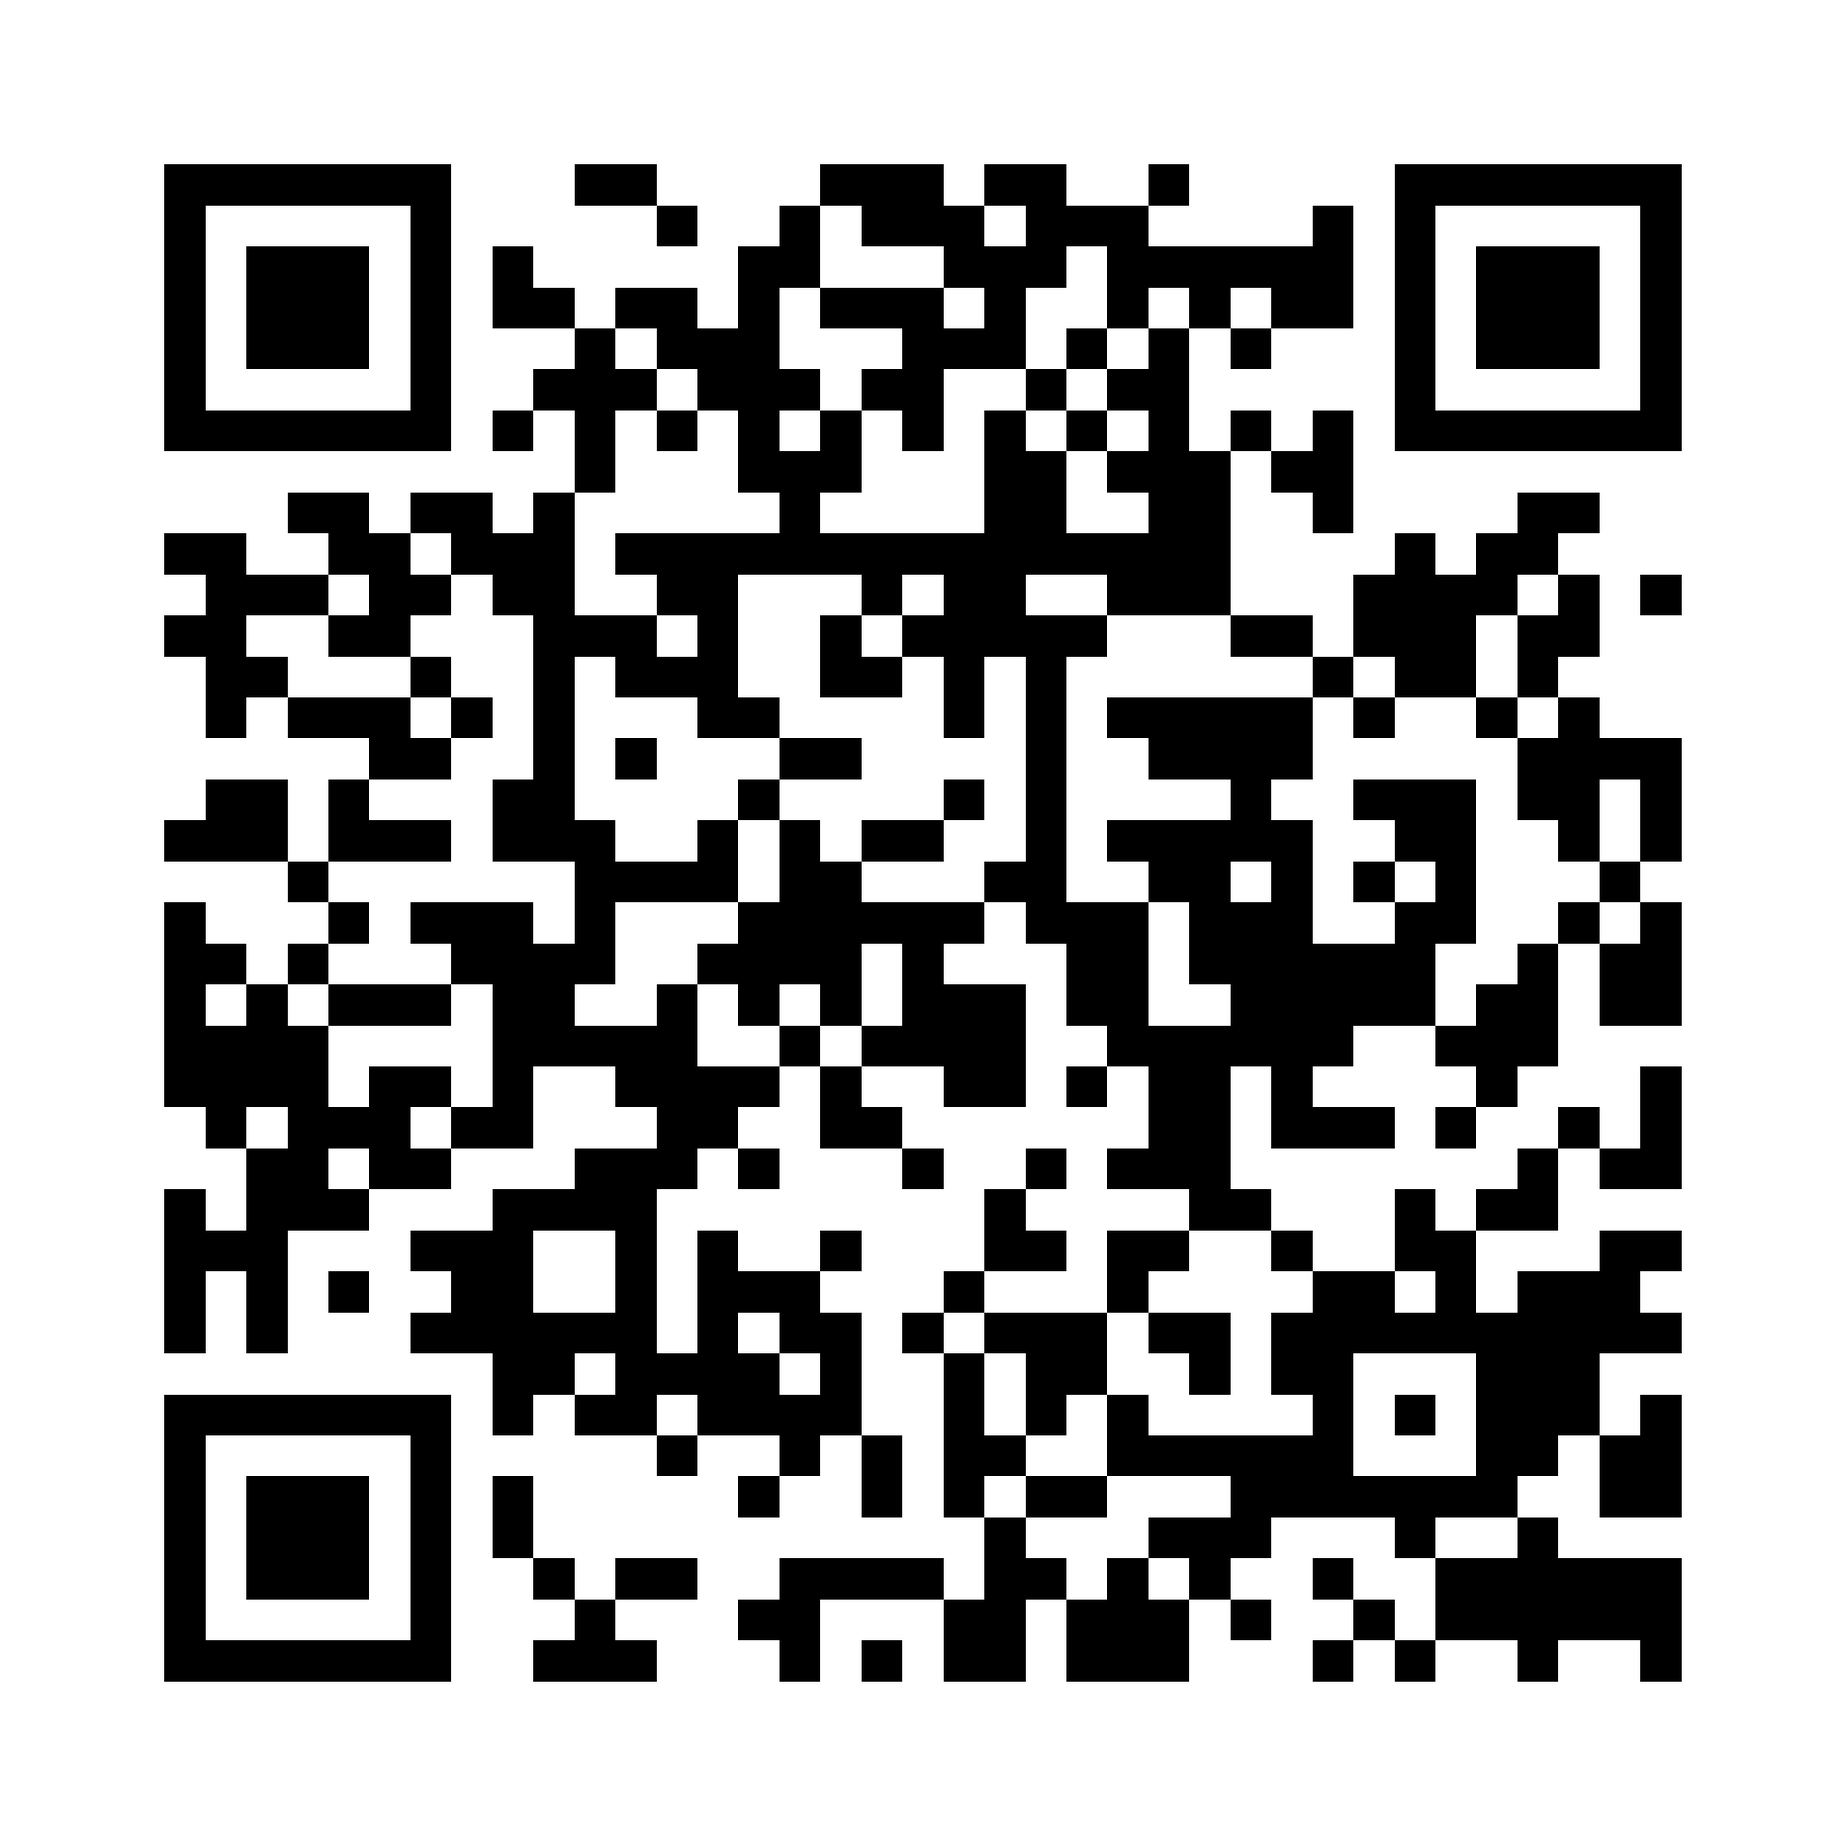
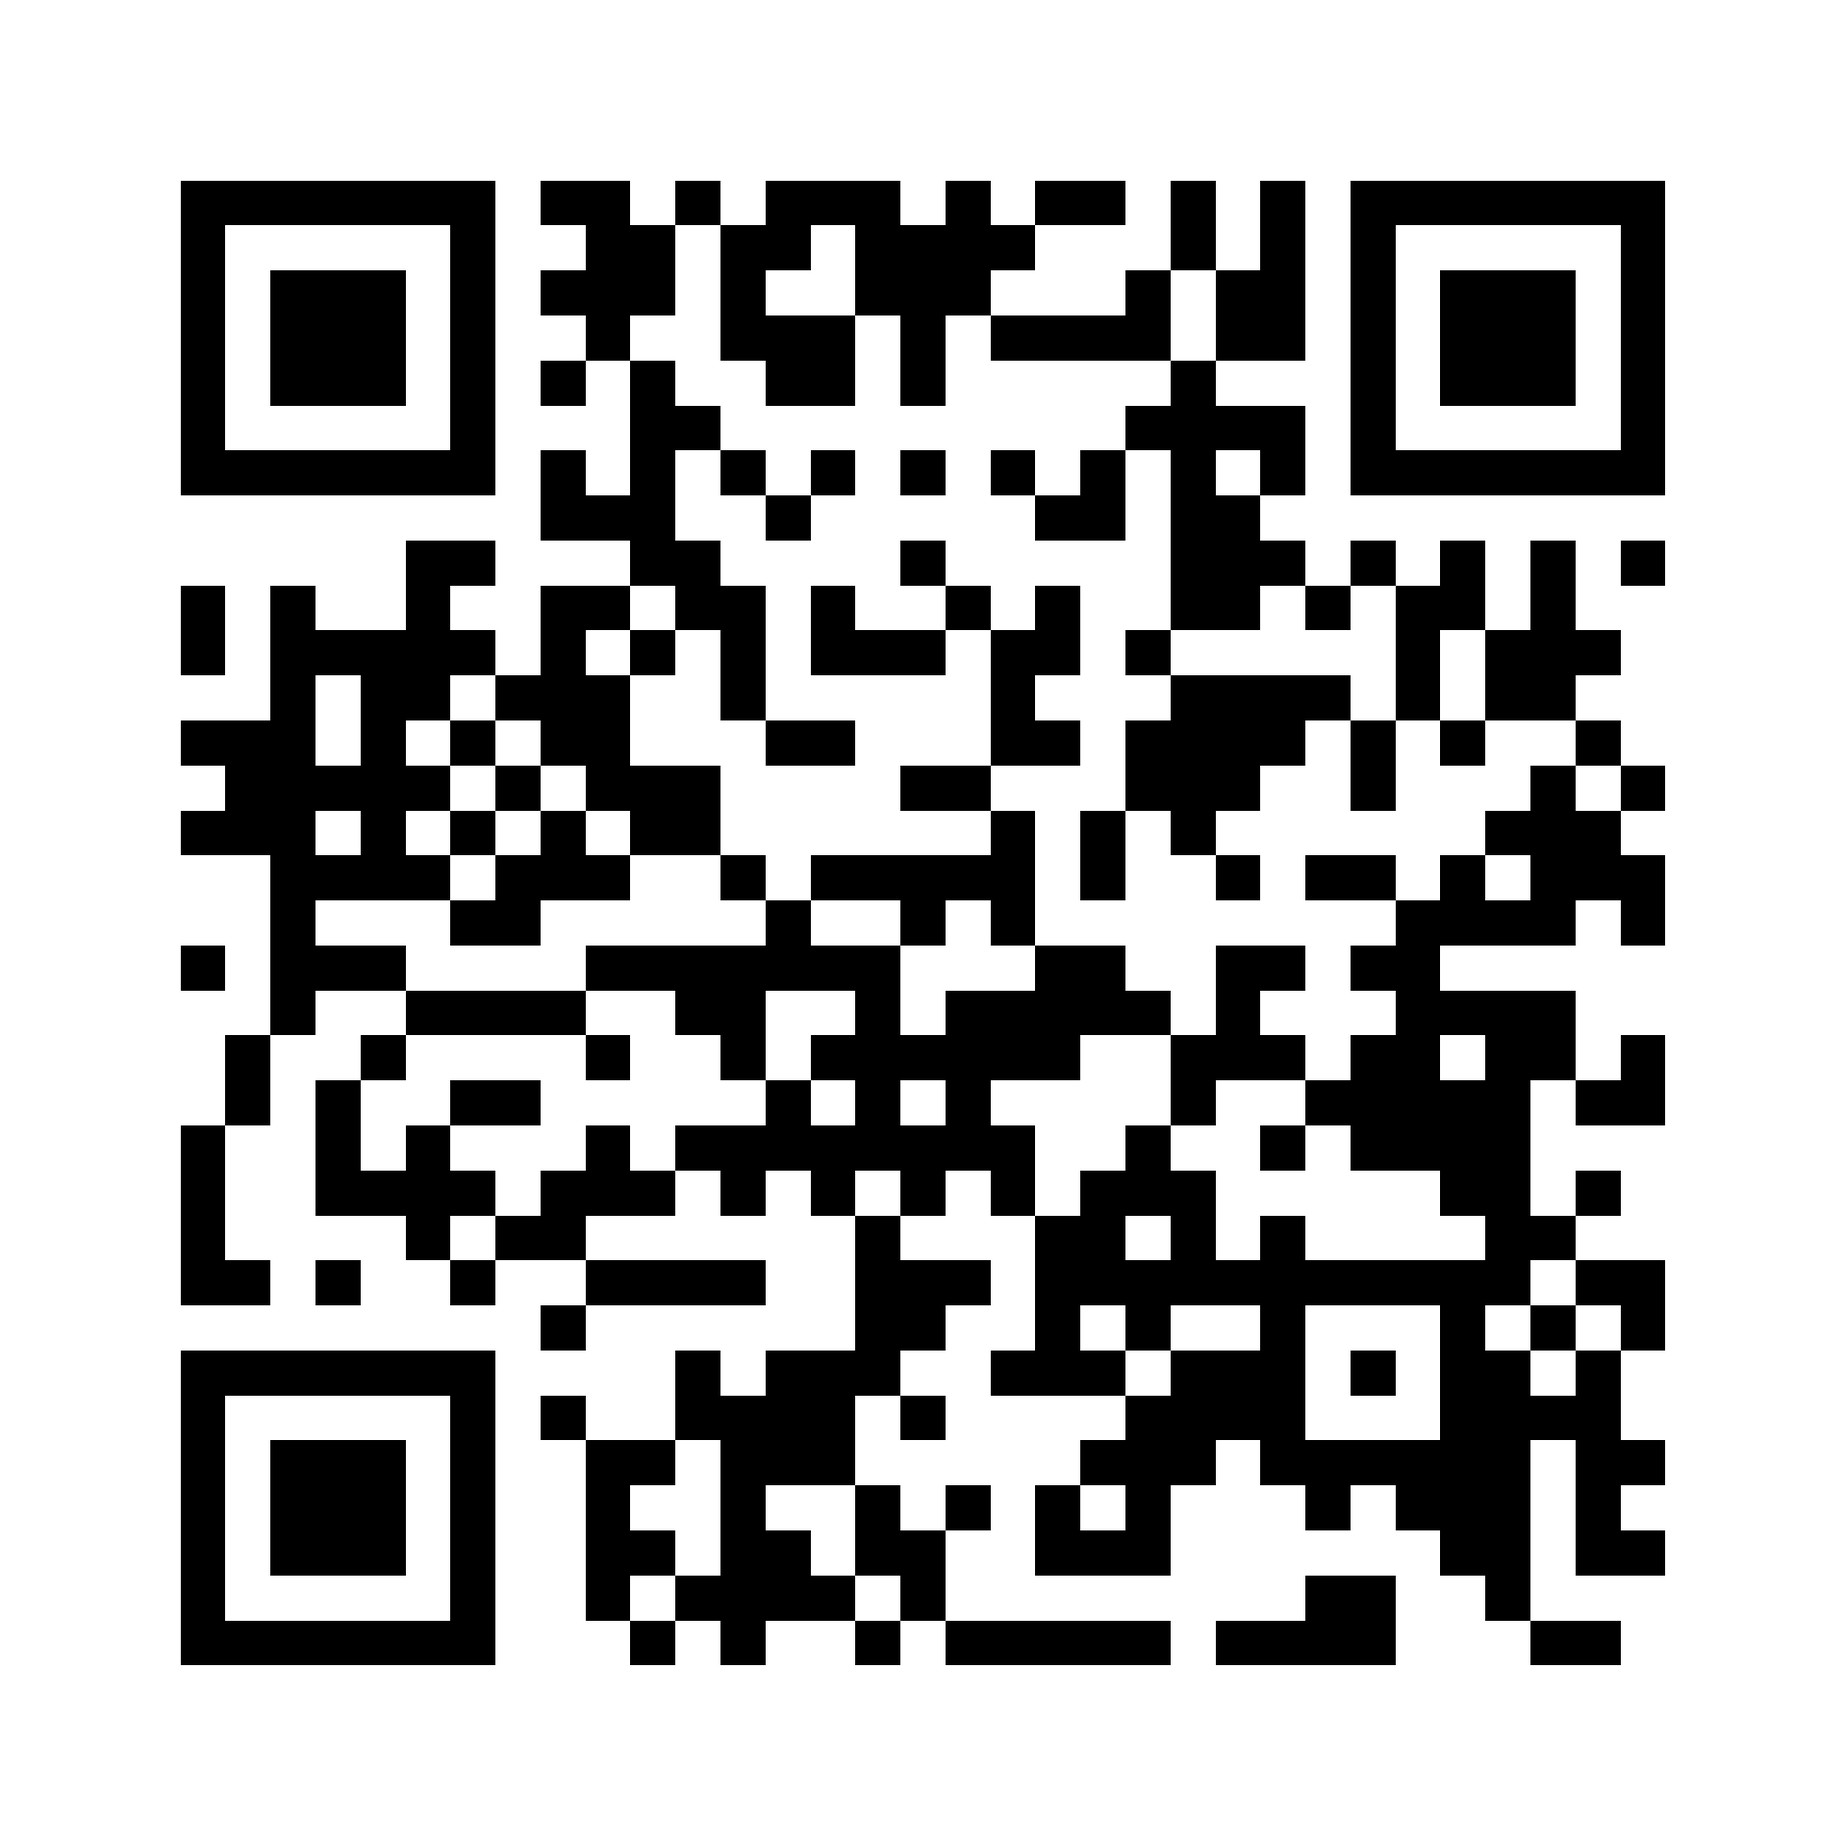
Hocaoglu menusunu kendi alan adina tasi (hocaoglupasta.com)
Menu ayri bir projeye tasinmiyor: ayni proje ikinci alan adina da cevap
veriyor. Kod, panel ve fiyat deposu ortak kaliyor, esnaf cogaldikca
kopyalanan kod olusmuyor.

- lib/domains.ts: alan adi <-> esnaf eslemesi, tek dogruluk kaynagi.
  Middleware'den import edildigi icin bilerek duz veri, menu dosyalarini
  Edge paketine cekmiyor.
- middleware.ts: matcher /admin disina genisletildi. Kendi alan adinda
  kok adres menuye rewrite edilir (adres cubugunda /menu/... gorunmez),
  /menu/* koke toplanir; ana sitedeki eski adres yeni alan adina 308.
  Panel korumasi ayri fonksiyona alindi, davranisi degismedi.
- canonical ve og:url esnafin kendi adresine doner, ayni menu arama
  motoruna iki ayri adres olarak gorunmez.
- npm run qr artik slug aliyor, adresi domains.ts'ten turetiyor.
  Hocaoglu QR'i https://hocaoglupasta.com adresine yeniden uretildi.

Ay Doner etkilenmedi, /menu/ay adresinde kalmaya devam ediyor.

Claude-Session: https://claude.ai/code/session_01MqEPBfbt6tbjrbvt1t7XER

diff --git a/middleware.ts b/middleware.ts
@@ -1,16 +1,62 @@
 import { NextResponse, type NextRequest } from 'next/server'
 import { SESSION_COOKIE, canEdit, readSession } from '@/lib/auth'
+import { restaurantDomain, slugForHost } from '@/lib/domains'
 
 /**
- * /admin altındaki her şey oturum ister. Giriş sayfası muaf, yoksa
- * kullanıcı sonsuz yönlendirmeye girer.
+ * İki iş yapıyor:
  *
- * Oturum ayrıca hangi esnafa ait olduğunu taşır: /admin/<slug> yolunda
- * kapsam tutmuyorsa istek kendi paneline geri gönderilir.
+ * 1) Alan adı yönlendirmesi. Kendi alan adı olan esnafta (bkz. lib/domains.ts)
+ *    kök adres o esnafın menüsünü gösterir; menünün ana sitedeki eski adresi
+ *    kalıcı olarak yeni alan adına yönlenir. Böylece her menünün tek bir
+ *    herkese açık adresi olur.
+ *
+ * 2) Panel girişi. /admin altındaki her şey oturum ister ve oturum hangi
+ *    esnafa ait olduğunu taşır; başkasının paneline geçilemez.
  */
 export async function middleware(request: NextRequest) {
   const { pathname, search } = request.nextUrl
+  const hostSlug = slugForHost(
+    request.headers.get('host') ?? request.nextUrl.hostname,
+  )
 
+  if (pathname.startsWith('/admin')) {
+    return adminGuard(request)
+  }
+
+  if (hostSlug) {
+    // Esnafın kendi alan adı. Kök adres menüyü gösterir; adres çubuğunda
+    // /menu/<slug> görünmesin diye redirect değil rewrite kullanıyoruz.
+    if (pathname === '/') {
+      return NextResponse.rewrite(new URL(`/menu/${hostSlug}`, request.url))
+    }
+
+    // /menu/... yolları bu alan adında yok sayılır: kendi menüsünün tekrar
+    // adresi de, başka esnafın menüsü de köke toplanır. Bu alan adı tek bir
+    // işletmeye ait, müşteriler birbirinin menüsünü görmüyor.
+    if (pathname.startsWith('/menu/')) {
+      return NextResponse.redirect(new URL('/', request.url), 308)
+    }
+
+    return NextResponse.next()
+  }
+
+  // Ana site: kendi alan adına taşınmış menünün eski adresi yeni adrese
+  // gitsin. Paylaşılmış bağlantılar kırılmaz, arama motorunda tek adres kalır.
+  const menuSlug = pathname.startsWith('/menu/')
+    ? pathname.split('/')[2]
+    : undefined
+  const ownDomain = menuSlug ? restaurantDomain(menuSlug) : undefined
+  if (ownDomain) {
+    return NextResponse.redirect(`https://${ownDomain}${search}`, 308)
+  }
+
+  return NextResponse.next()
+}
+
+async function adminGuard(request: NextRequest) {
+  const { pathname, search } = request.nextUrl
+
+  // Giriş sayfası muaf, yoksa kullanıcı sonsuz yönlendirmeye girer.
   if (pathname === '/admin/giris') return NextResponse.next()
 
   const session = await readSession(request.cookies.get(SESSION_COOKIE)?.value)
@@ -32,5 +78,12 @@ export async function middleware(request: NextRequest) {
 }
 
 export const config = {
-  matcher: '/admin/:path*',
+  /**
+   * Artık yalnızca /admin değil, kök adres de middleware'den geçmeli.
+   * Statik dosyalar ve görseller hariç tutuluyor — onlar için host
+   * yönlendirmesi anlamsız, her istekte middleware çalıştırmak israf.
+   */
+  matcher: [
+    '/((?!_next/static|_next/image|favicon.ico|robots.txt|.*\\.(?:png|jpg|jpeg|gif|svg|webp|ico|woff2?)$).*)',
+  ],
 }

diff --git a/lib/domains.ts b/lib/domains.ts
@@ -1,0 +1,51 @@
+/**
+ * Esnafa özel alan adları.
+ *
+ * Bir esnaf kendi alan adını aldığında buraya bir satır eklenir; gerisi
+ * (kök adresin menüye dönmesi, eski adresin yönlenmesi, canonical etiketi,
+ * QR'ın hangi adrese basılacağı) bu tablodan türer.
+ *
+ * DİKKAT: Bu dosya middleware'den import ediliyor, yani Edge ortamına
+ * giriyor. Bu yüzden bilerek yalnızca düz veri tutuyor — lib/menu-data
+ * altındaki menü dosyalarını buraya bağlama, hepsi Edge paketine girer.
+ *
+ * Alan adı www'suz ve protokolsüz yazılır; www ve port eşleştirme sırasında
+ * kırpılıyor.
+ */
+export const RESTAURANT_DOMAINS: Record<string, string> = {
+  hocaoglu: 'hocaoglupasta.com',
+}
+
+/** Kendi alan adı olmayan esnafların menüsü bu adresin altında durur. */
+export const SITE_URL =
+  process.env.NEXT_PUBLIC_SITE_URL ?? 'https://cetinnyigit.com'
+
+/** "www.Ornek.com:3000" → "ornek.com". Eşleştirme öncesi normalleştirme. */
+export function normalizeHost(host: string | null | undefined): string {
+  if (!host) return ''
+  return host.toLowerCase().split(':')[0].replace(/^www\./, '')
+}
+
+/** İstek bu alan adına geldiyse hangi esnafın menüsü açılmalı? */
+export function slugForHost(host: string | null | undefined): string | undefined {
+  const normalized = normalizeHost(host)
+  if (!normalized) return undefined
+
+  for (const [slug, domain] of Object.entries(RESTAURANT_DOMAINS)) {
+    if (normalized === normalizeHost(domain)) return slug
+  }
+  return undefined
+}
+
+export function restaurantDomain(slug: string): string | undefined {
+  return RESTAURANT_DOMAINS[slug]
+}
+
+/**
+ * Menünün herkese açık tek adresi. Kendi alan adı varsa kökü, yoksa ana
+ * sitedeki /menu/<slug> yolu. QR kartlar ve canonical etiketi bunu kullanır.
+ */
+export function restaurantUrl(slug: string): string {
+  const domain = restaurantDomain(slug)
+  return domain ? `https://${normalizeHost(domain)}` : `${SITE_URL}/menu/${slug}`
+}

diff --git a/scripts/make-qr.ts b/scripts/make-qr.ts
@@ -1,6 +1,10 @@
 /**
  * Karta bastırmak için QR üretir.
  *
+ * Esnaf slug'ı ver, adresi kendi bulsun (kendi alan adı varsa onu kullanır):
+ *   npm run qr -- hocaoglu
+ *
+ * Ya da adresi elle ver:
  *   npm run qr -- https://ornek.com/menu/hocaoglu hocaoglu
  *
  * İki dosya çıkar (qr/ klasörüne):
@@ -15,6 +19,8 @@
 import { mkdir, writeFile } from 'node:fs/promises'
 import path from 'node:path'
 import QRCode from 'qrcode'
+import { restaurantUrl } from '../lib/domains'
+import { getRestaurantSlugs } from '../lib/menu-data'
 
 const OPTIONS = {
   errorCorrectionLevel: 'H',
@@ -25,15 +31,28 @@ const OPTIONS = {
 } as const
 
 async function main() {
-  const [url, rawName] = process.argv.slice(2)
+  const [target, rawName] = process.argv.slice(2)
 
-  if (!url) {
+  if (!target) {
     console.error(
-      'Kullanım: npm run qr -- <url> [dosya-adı]\n' +
+      'Kullanım: npm run qr -- <slug|url> [dosya-adı]\n' +
+        'Örnek:    npm run qr -- hocaoglu\n' +
         'Örnek:    npm run qr -- https://ornek.com/menu/hocaoglu hocaoglu',
     )
     process.exit(1)
   }
+
+  // Slug verildiyse adresi lib/domains.ts'ten türet — kendi alan adı olan
+  // esnafta kart o alan adına basılsın, elle yazıp yanlış adres girilmesin.
+  const isUrl = target.includes('://')
+  if (!isUrl && !getRestaurantSlugs().includes(target)) {
+    console.error(
+      `Tanımsız esnaf: ${target}\n` +
+        `Bilinen slug'lar: ${getRestaurantSlugs().join(', ')}`,
+    )
+    process.exit(1)
+  }
+  const url = isUrl ? target : restaurantUrl(target)
 
   try {
     // Yazım hatası olan bir adres kartlara basılmasın.
@@ -50,7 +69,7 @@ async function main() {
     )
   }
 
-  const name = rawName ?? 'menu'
+  const name = rawName ?? (isUrl ? 'menu' : target)
   const outDir = path.join(process.cwd(), 'qr')
   await mkdir(outDir, { recursive: true })
 

diff --git a/app/menu/[slug]/page.tsx b/app/menu/[slug]/page.tsx
@@ -3,6 +3,7 @@ import { notFound } from 'next/navigation'
 import { CategoryNav } from '@/components/menu/CategoryNav'
 import { MenuHero } from '@/components/menu/MenuHero'
 import { MenuSection } from '@/components/menu/MenuSection'
+import { restaurantUrl } from '@/lib/domains'
 import { getRestaurant, getRestaurantSlugs } from '@/lib/menu-data'
 import { applyOverrides } from '@/lib/menu-merge'
 import { readOverrides } from '@/lib/menu-store'
@@ -35,13 +36,20 @@ export function generateMetadata({ params }: Props): Metadata {
   const restaurant = getRestaurant(params.slug)
   if (!restaurant) return {}
 
+  // Menünün herkese açık tek adresi. Kendi alan adı olan esnafta bu, ana
+  // sitedeki /menu/<slug> değil o alan adının kökü olur — arama motoru aynı
+  // menüyü iki ayrı adres sanmasın.
+  const url = restaurantUrl(params.slug)
+
   return {
     title: restaurant.seo.title,
     description: restaurant.seo.description,
+    alternates: { canonical: url },
     openGraph: {
       title: restaurant.seo.title,
       description: restaurant.seo.description,
-      images: [restaurant.hero.src],
+      url,
+      images: [new URL(restaurant.hero.src, url).toString()],
       type: 'website',
     },
   }

diff --git a/app/layout.tsx b/app/layout.tsx
@@ -1,5 +1,6 @@
 import type { Metadata, Viewport } from 'next'
 import { Poppins, Yellowtail } from 'next/font/google'
+import { SITE_URL } from '@/lib/domains'
 import './globals.css'
 
 /**
@@ -27,11 +28,10 @@ const yellowtail = Yellowtail({
   display: 'swap',
 })
 
-/** Open Graph görsellerinin mutlak URL'e çevrilmesi için gerekli. */
-const siteUrl = process.env.NEXT_PUBLIC_SITE_URL ?? 'https://cetinnyigit.com'
-
 export const metadata: Metadata = {
-  metadataBase: new URL(siteUrl),
+  // Göreli adreslerin mutlak URL'e çevrilmesi için gerekli. Kendi alan adı
+  // olan esnaflar bunu kendi sayfalarında eziyor (bkz. menu/[slug]/page.tsx).
+  metadataBase: new URL(SITE_URL),
   title: 'Menü',
   description: 'Dijital esnaf menüleri',
 }

diff --git a/README.md b/README.md
@@ -2,10 +2,13 @@
 
 NFC kartla açılan dijital esnaf menüleri. Next.js 14 (App Router) + TypeScript + Tailwind.
 
-Alan adı: `cetinnyigit.com`. Her esnaf `cetinnyigit.com/menu/<slug>` adresinde
-yayınlanır, kartındaki NFC ve QR bu adrese gider.
+Ana alan adı: `cetinnyigit.com`. Esnaf varsayılan olarak
+`cetinnyigit.com/menu/<slug>` adresinde yayınlanır; kendi alan adını almış
+esnafta menü o alan adının kökünde açılır (bkz. [Esnafa özel alan adı]
+(#esnafa-özel-alan-adı)).
 
-Menüler: `/menu/hocaoglu`, `/menu/ay` · Fiyat paneli: `/admin` · Tanıtım: `/`
+Menüler: `hocaoglupasta.com` (Hocaoğlu), `/menu/ay` (Ay Döner) ·
+Fiyat paneli: `/admin` · Tanıtım: `/`
 
 Ana sayfa bilinçli olarak tanıtım sayfası — buradan hiçbir müşteri menüsüne
 veya panele bağlantı verilmiyor, müşteriler birbirinin menüsünü görmesin diye.
@@ -132,11 +135,39 @@ olduğunu söyleyen bir sayfa gösterir.
 4. `lib/menu-data/index.ts` içindeki `restaurants` dizisine ekle.
 5. `npm run check:keys` — anahtar çakışması var mı.
 6. Vercel'e `ADMIN_PASSWORD_<SLUG>` ekle, deploy et.
-7. QR üret: `npm run qr -- https://cetinnyigit.com/menu/<slug> <slug>`.
+7. QR üret: `npm run qr -- <slug>` (adresi kendi bulur).
 
 Route otomatik gelir: `/menu/<slug>`. `generateStaticParams` her esnaf için
 build sırasında statik HTML üretir; listede olmayan slug'lar `notFound()` ile
 404 döner.
+
+### Esnafa özel alan adı
+
+Bir esnaf kendi alan adını aldığında menü ayrı bir projeye taşınmaz — aynı
+proje o alan adına da cevap verir. Kod tek yerde kalır, panel ve fiyat deposu
+ortak çalışmaya devam eder.
+
+1. `lib/domains.ts` içindeki `RESTAURANT_DOMAINS`'e bir satır ekle:
+   `hocaoglu: 'hocaoglupasta.com'`. Tek doğruluk kaynağı burasıdır.
+2. Vercel → proje → Settings → Domains → alan adını **bu projeye** ekle
+   (yeni proje açma). `www` varyantını da ekleyip apex'e yönlendir.
+3. Alan adı sağlayıcısında Vercel'in verdiği A / CNAME kaydını gir.
+4. QR'ı yeniden üret: `npm run qr -- <slug>`.
+
+`middleware.ts` gerisini halleder:
+
+| İstek | Sonuç |
+| --- | --- |
+| `hocaoglupasta.com/` | menü (rewrite — adres çubuğunda `/menu/...` görünmez) |
+| `hocaoglupasta.com/menu/*` | `/` → 308 |
+| `hocaoglupasta.com/admin` | panel, normal çalışır |
+| `cetinnyigit.com/menu/hocaoglu` | `https://hocaoglupasta.com` → 308 |
+
+Menünün canonical'ı ve Open Graph adresi de kendi alan adına döner, aynı menü
+arama motoruna iki ayrı adres olarak görünmez.
+
+`lib/domains.ts` middleware'den import edildiği için Edge paketine giriyor —
+oraya menü verisi bağlama, sadece düz eşleme tut.
 
 ### Esnafa özel renkler
 
@@ -152,7 +183,9 @@ gösterir.
 
 ## QR kartlar
 
-`npm run qr -- <url> <ad>` → `qr/<ad>-qr.svg` ve `qr/<ad>-qr.png`.
+`npm run qr -- <slug>` → `qr/<slug>-qr.svg` ve `qr/<slug>-qr.png`. Adres
+`lib/domains.ts`'ten türetilir; kendi alan adı olan esnafta kart o alan adına
+basılır. Adresi elle vermek gerekirse: `npm run qr -- <url> <ad>`.
 
 Matbaaya **SVG**'yi ver. Hata düzeltme seviyesi H (%30), 4 modül sessiz alan.
 En az 2 cm basılmalı, saf siyah/beyaz, mat lamine. Sessiz alan kırpılmamalı.
